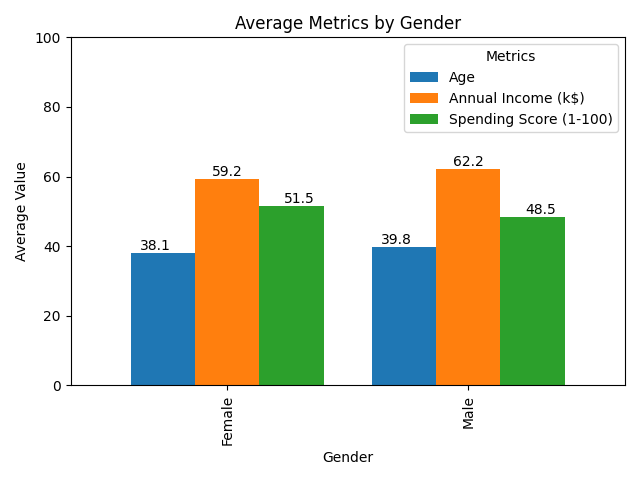
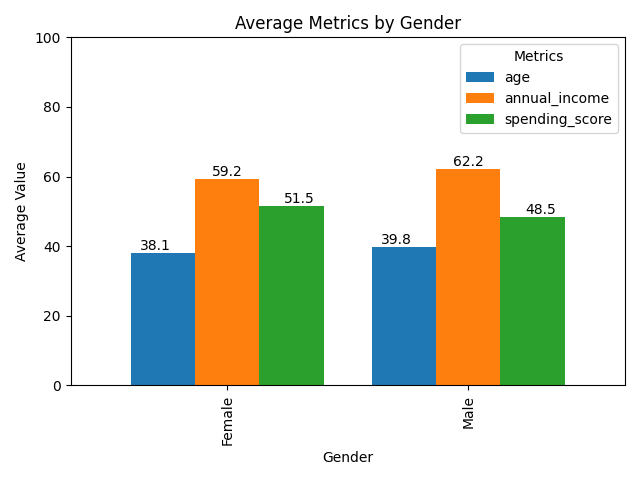
Normalize column names and update all references in `data_analysis.py`

Changed region(s): [[0.625, 0.0938, 0.9688, 0.2812]]

diff --git a/src/data_analysis.py b/src/data_analysis.py
@@ -15,7 +15,7 @@ def save_plot(plt, filename):
 
 def plot_gender_averages(df):
     # Calculate means for each gender
-    gender_means = df.groupby('Gender')[['Age', 'Annual Income (k$)', 'Spending Score (1-100)']].mean()
+    gender_means = df.groupby('gender')[['age', 'annual_income', 'spending_score']].mean()
 
     # Create the bar plot
     plt.figure(figsize=(10, 6))
@@ -44,7 +44,7 @@ def plot_gender_averages(df):
 
 def plot_gender_pie(df):
     # Calculate gender distribution
-    gender_counts = df['Gender'].value_counts()
+    gender_counts = df['gender'].value_counts()
 
     # Create pie chart
     plt.figure(figsize=(8, 8))
@@ -62,13 +62,13 @@ def plot_distributions(df):
     fig, (ax1, ax2) = plt.subplots(2, 1, figsize=(10, 6))
 
     # Age distribution
-    ax1.hist(df['Age'], bins=10, edgecolor='black', color='tab:blue')
+    ax1.hist(df['age'], bins=10, edgecolor='black', color='tab:blue')
     ax1.set_title('Age Distribution')
     ax1.set_xlabel('Age')
     ax1.set_ylabel('Frequency')
 
     # Annual Income distribution
-    ax2.hist(df['Annual Income (k$)'], bins=10, edgecolor='black', color='tab:orange')
+    ax2.hist(df['annual_income'], bins=10, edgecolor='black', color='tab:orange')
     ax2.set_title('Annual Income Distribution')
     ax2.set_xlabel('Annual Income (k$)')
     ax2.set_ylabel('Frequency')
@@ -79,7 +79,9 @@ def plot_distributions(df):
 
 def analyze_data(csv_path='../data/Mall_Customers.csv' ):
     # Read the data
-    df = pd.read_csv(csv_path)
+    df = pd.read_csv(csv_path, header=0,
+                     names=['id', 'gender', 'age', 'annual_income', 'spending_score'],
+                     index_col='id')
 
     # Basic summary statistics
     print("\n=== Basic Summary Statistics ===")
@@ -91,10 +93,10 @@ def analyze_data(csv_path='../data/Mall_Customers.csv' ):
 
     # Distribution of categorical variables
     print("\n=== Gender Distribution ===")
-    print(df['Gender'].value_counts())
+    print(df['gender'].value_counts())
 
     # Correlation matrix for numerical columns
-    numerical_cols = ['Age', 'Annual Income (k$)', 'Spending Score (1-100)']
+    numerical_cols = ['age', 'annual_income', 'spending_score']
     correlation = df[numerical_cols].corr()
     print("\n=== Correlation Matrix ===")
     print(correlation)
